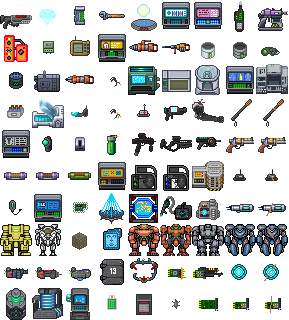
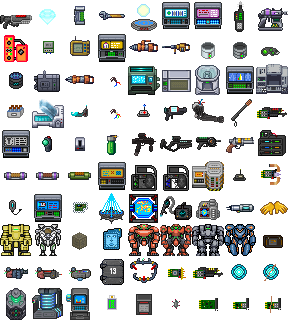
rigs n sci

Changed region(s): [[0.872, 0.3125, 0.9965, 0.5938], [0.872, 0.625, 0.9965, 0.8125]]

diff --git a/nano/css/shared.css b/nano/css/shared.css
@@ -931,6 +931,9 @@ img.sciTechTreeIconToolTip {
 .icon-rigscanner { background-position: -160px -256px; }
 .icon-rigtaser { background-position: -192px -256px; }
 .icon-rignuclearreactor { background-position: -224px -256px; }
+.icon-riglethals { background-position: -256px -96px; }
+.icon-rigstorage { background-position: -256px -224px; }
+.icon-rigmining { background-position: -256px -160px; }
 
 .icon-shield { background-position: 0px -288px; }
 .icon-fusion { background-position: -32px -288px; }
